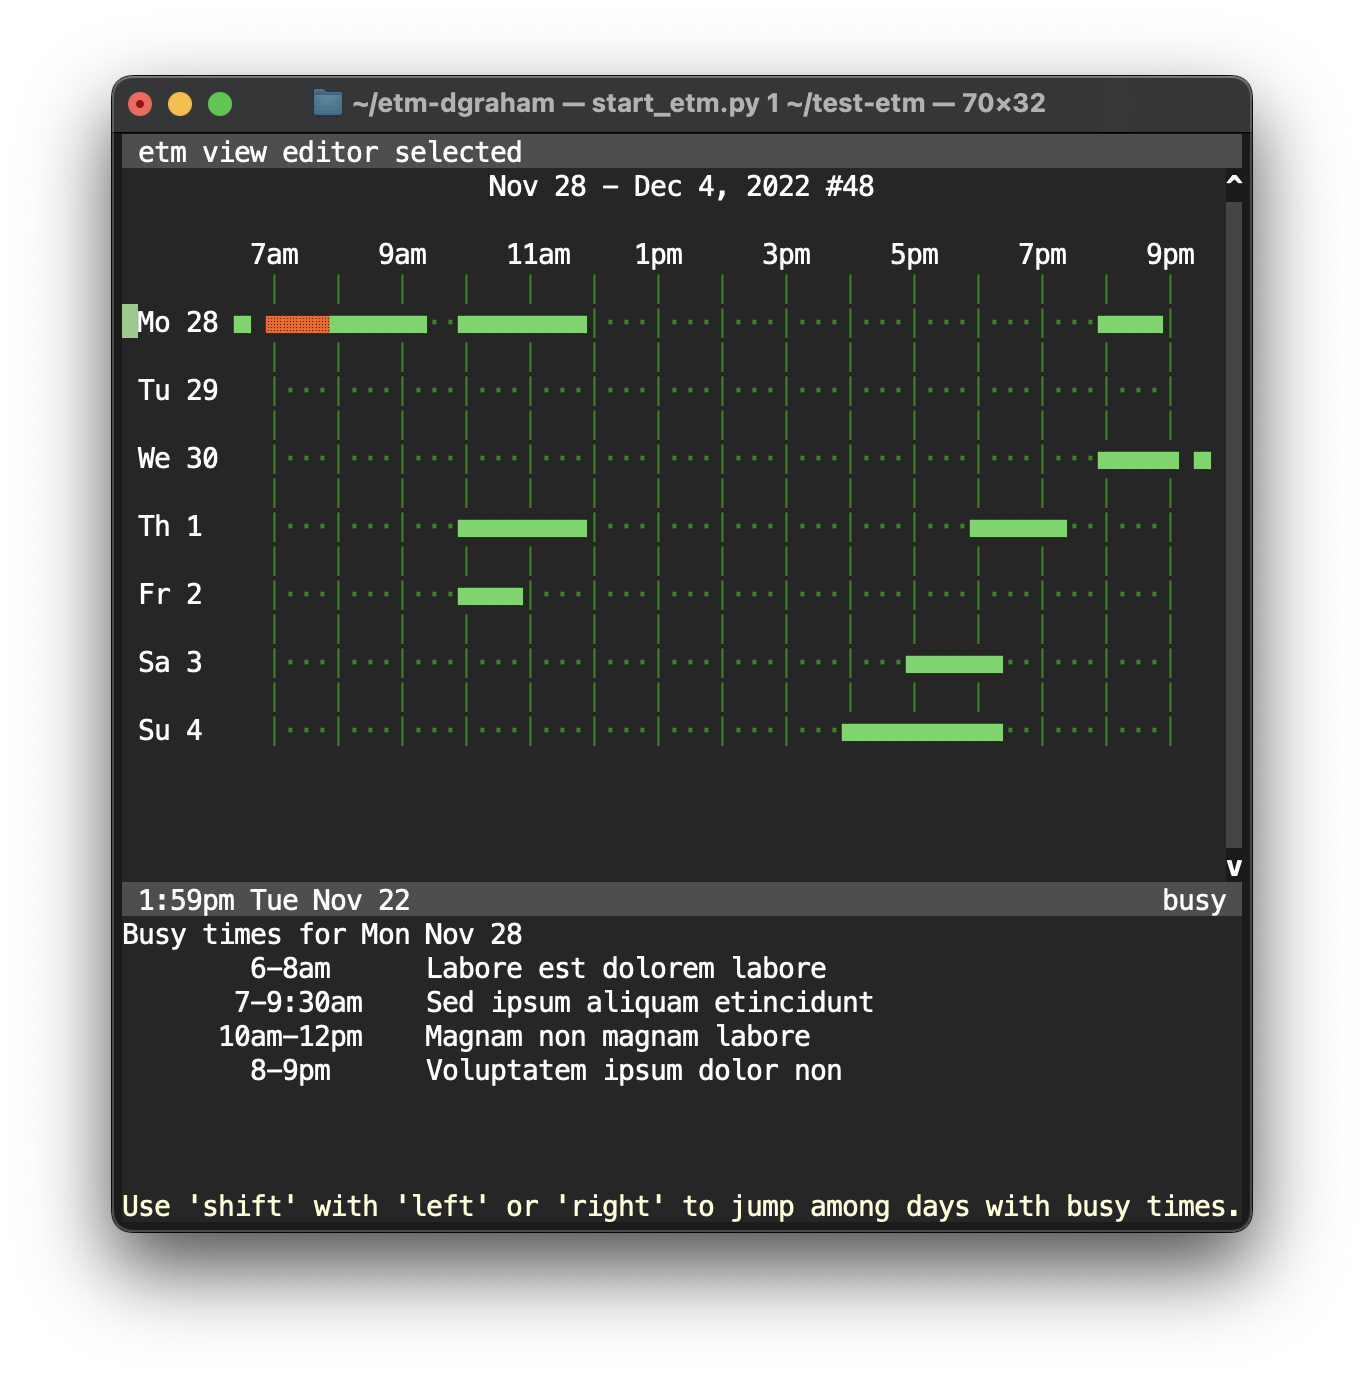
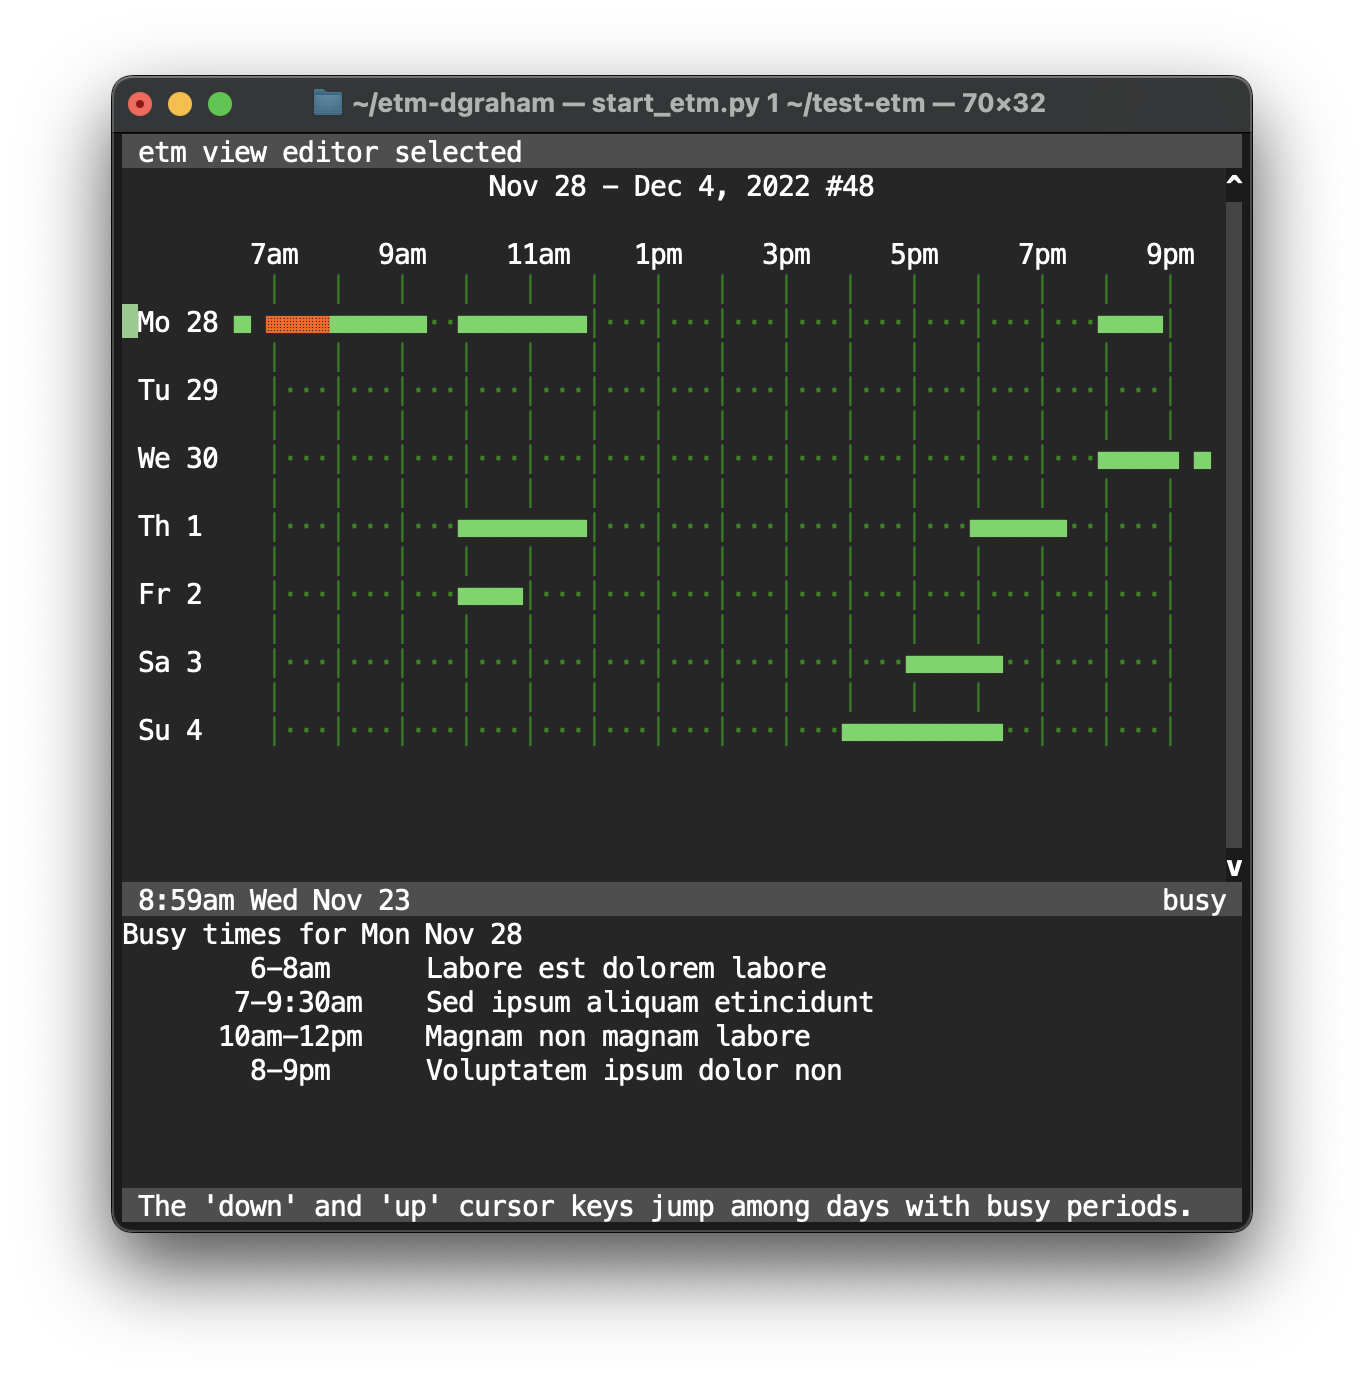
Changed bindings for busy_view to 'up' and 'down'. Added next_id and previous_id with the same bindings to other, non busy, views to jump between rows with id's, i.e., rows corresponding to items.

Changed region(s): [[0.0924, 0.8413, 0.9238, 0.9036], [0.1848, 0.6232, 0.2155, 0.6543]]

diff --git a/etm/view.py b/etm/view.py
@@ -1602,7 +1602,7 @@ busy_area = TextArea(
 
 width = shutil.get_terminal_size()[0] - 2
 # busy_times = "Use '⇧ ⇾' and '⇧ ⇽' to jump among the days with busy times.".center(width, ' ')
-busy_times = "Use 'shift' with 'left' or 'right' to jump among days with busy times.".center(width, ' ')
+busy_times = "The 'down' and 'up' cursor keys jump among days with busy periods.".center(width, ' ')
 no_busy_times = "There are no days with busy periods in this week.".center(width, ' ')
 
 def get_busy_text():
@@ -1610,9 +1610,8 @@ def get_busy_text():
 
 
 busy_container = HSplit([
-    # Window(FormattedTextControl('Press "q" to quit.'), height=1, style='reverse'),
     busy_area,
-    Window(FormattedTextControl(get_busy_text), height=1),
+    Window(FormattedTextControl(get_busy_text), style='class:status', height=1),
     ], style='class:entry')
 
 query_bindings = KeyBindings()
@@ -2426,7 +2425,8 @@ def set_view(view):
     item.use_items()
     set_text(dataview.show_active_view())
 
-@bindings.add('s-right', filter=is_busy_view & is_viewing)
+
+@bindings.add('down', filter=is_busy_view & is_viewing)
 def next_busy(*event):
     busy_details = dataview.busy_details
     if not busy_details:
@@ -2434,7 +2434,6 @@ def next_busy(*event):
     rows = [x for x in busy_details.keys()]
     rows.sort()
     current_row = text_area.document.cursor_position_row + 1
-    # next_row = rows[0]
     next_row = rows[-1]
     for r in rows:
         if r > current_row:
@@ -2445,7 +2444,8 @@ def next_busy(*event):
     busy_area.text = busy_details.get(next_row, '')
     dataview.busy_row = next_row
 
-@bindings.add('s-left', filter=is_busy_view & is_viewing)
+
+@bindings.add('up', filter=is_busy_view & is_viewing)
 def previous_busy(*event):
     busy_details = dataview.busy_details
     if not busy_details:
@@ -2453,8 +2453,6 @@ def previous_busy(*event):
     rows = [x for x in busy_details.keys()]
     rows.sort(reverse=True)
     current_row = text_area.document.cursor_position_row + 1
-    # next_row = rows[0]
-    # next_row = rows[-1]
     next_row = 1
     for r in rows:
         if r < current_row:
@@ -2464,6 +2462,42 @@ def previous_busy(*event):
         text_area.buffer.document.translate_row_col_to_index(next_row-1, 0)
     busy_area.text = busy_details.get(next_row, '')
     dataview.busy_row = next_row
+
+
+@bindings.add('down', filter=is_not_busy_view & is_viewing)
+def next_id(*event):
+    row2id = dataview.row2id
+    if not row2id:
+        return
+    rows = [x for x in row2id.keys()]
+    rows.sort()
+    current_row = text_area.document.cursor_position_row
+    # logger.debug(f"rows: {rows}; current_row: {current_row}")
+    next_row = rows[-1]
+    for r in rows:
+        if r > current_row:
+            next_row = r
+            break
+    text_area.buffer.cursor_position = \
+        text_area.buffer.document.translate_row_col_to_index(next_row, 0)
+
+
+@bindings.add('up', filter=is_not_busy_view & is_viewing)
+def previous_id(*event):
+    row2id = dataview.row2id
+    if not row2id:
+        return
+    rows = [x for x in row2id.keys()]
+    rows.sort(reverse=True)
+    current_row = text_area.document.cursor_position_row
+    # logger.debug(f"rows: {rows}; current_row: {current_row}")
+    next_row = 1
+    for r in rows:
+        if r < current_row:
+            next_row = r
+            break
+    text_area.buffer.cursor_position = \
+        text_area.buffer.document.translate_row_col_to_index(next_row, 0)
 
 
 @bindings.add('c-p', filter=is_viewing)

diff --git a/etm/model.py b/etm/model.py
@@ -6570,18 +6570,7 @@ def schedule(db, yw=getWeekNum(), current=[], now=pendulum.now(), weeks_before=0
         rows.extend(current)
     rows.sort(key=itemgetter('sort'))
     done.sort(key=itemgetter('sort'))
-    # busy.sort(key=itemgetter('sort'))
 
-    # for the individual weeks
-    # agenda_hsh = {}     # yw -> agenda_view
-    # done_hsh = {}       # yw -> done_view
-    # busy_hsh = {}       # yw -> busy_view
-    # row2id_hsh = {}     # yw -> row2id
-    # done2id_hsh = {}     # yw -> row2id
-    # weeks = set([])
-
-    # week & day gives (year, weeknum, daynum) and thus date
-    # p
     busy_details = {}
     width = shutil.get_terminal_size()[0]
     dent = int((width - 69)/2) * " "

diff --git a/README.md b/README.md
@@ -493,7 +493,7 @@ The display for each reminder shows the itemtype and summary column on the left 
 
 The _weekly_ agenda, busy and completed views display one week at a time and are *synchronized* so that all three views always display the same week. Left or right cursor keys go backward or forward a week at a time and the pressing the space bar jumps to the week containing the current day. You can also press "J" and enter a date to jump to the week containing the date.
 
-In both agenda and completed views, only days with scheduled reminders are listed. If nothing is scheduled for the entire week, then "Nothing scheduled" is displayed. In busy view, only days that have events with busy times (@e and/or @w entries) are displayed. Use "shift" with "right" or "left" to jump forward or backward among the days with busy times.
+In both agenda and completed views, only days with scheduled reminders are listed. If nothing is scheduled for the entire week, then "Nothing scheduled" is displayed. In busy view, only days that have events with busy times (@e and/or @w entries) are displayed. Use the "down" and "up" cursor keys to jump among the days with busy times.
 
 The normal agenda listing for a week day:
 
